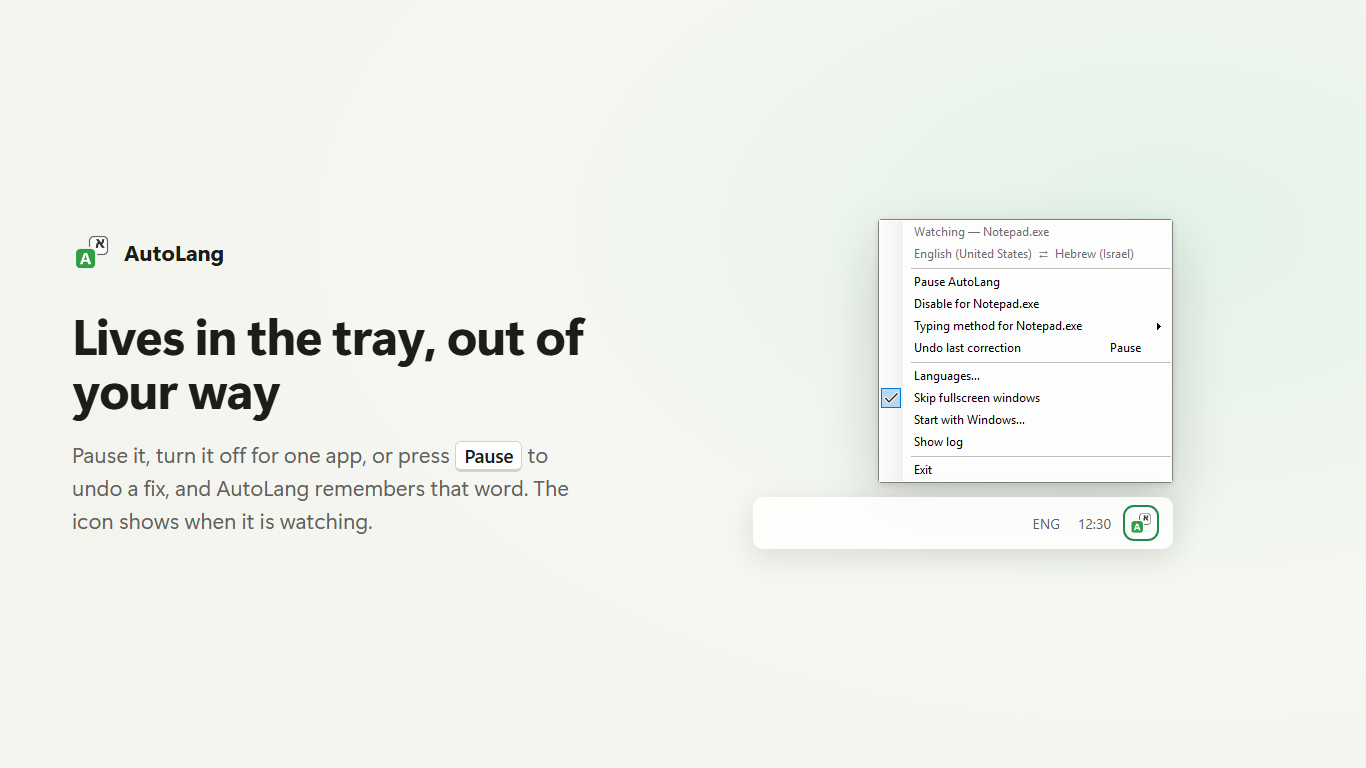
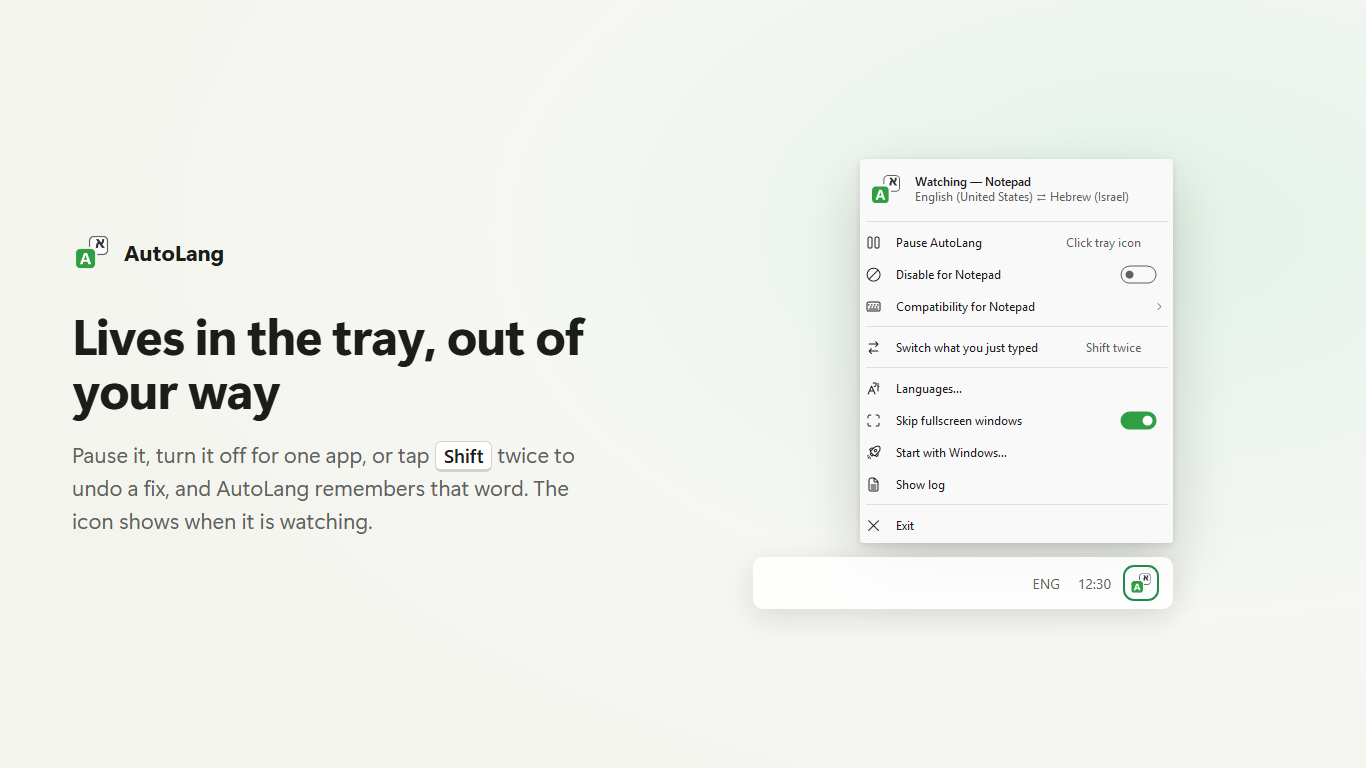
Store screenshots and tester notes: new tray menu, tap Shift twice

diff --git a/packaging/store/screenshots.html b/packaging/store/screenshots.html
@@ -81,7 +81,7 @@
   <div>
     <div class="brand"><img src="../../docs/icon.png" alt="">AutoLang</div>
     <h1>Lives in the tray, out of your way</h1>
-    <p class="sub">Pause it, turn it off for one app, or press <kbd>Pause</kbd> to undo a fix, and AutoLang remembers
+    <p class="sub">Pause it, turn it off for one app, or tap <kbd>Shift</kbd> twice to undo a fix, and AutoLang remembers
       that word. The icon shows when it is watching.</p>
   </div>
   <div class="visual">

diff --git a/packaging/STORE.md b/packaging/STORE.md
@@ -120,7 +120,7 @@ Core
 
 M4 features
 - [ ] Notepad run as administrator: icon orange, one notice balloon per session, nothing typed there is touched.
-- [ ] Typing method: in some app switch to **Simulated keys**, then **Paste via clipboard**; corrections still
+- [ ] Compatibility for <app>: in some app switch to **Key presses**, then **Paste**; corrections still
       work. With Paste: copy an image first, trigger a correction, paste. The image comes back, and the corrected
       word is not in Win+V history.
 - [ ] Crash restart cannot be forced from outside: `taskkill` is not a crash, and Windows only restarts an app that
